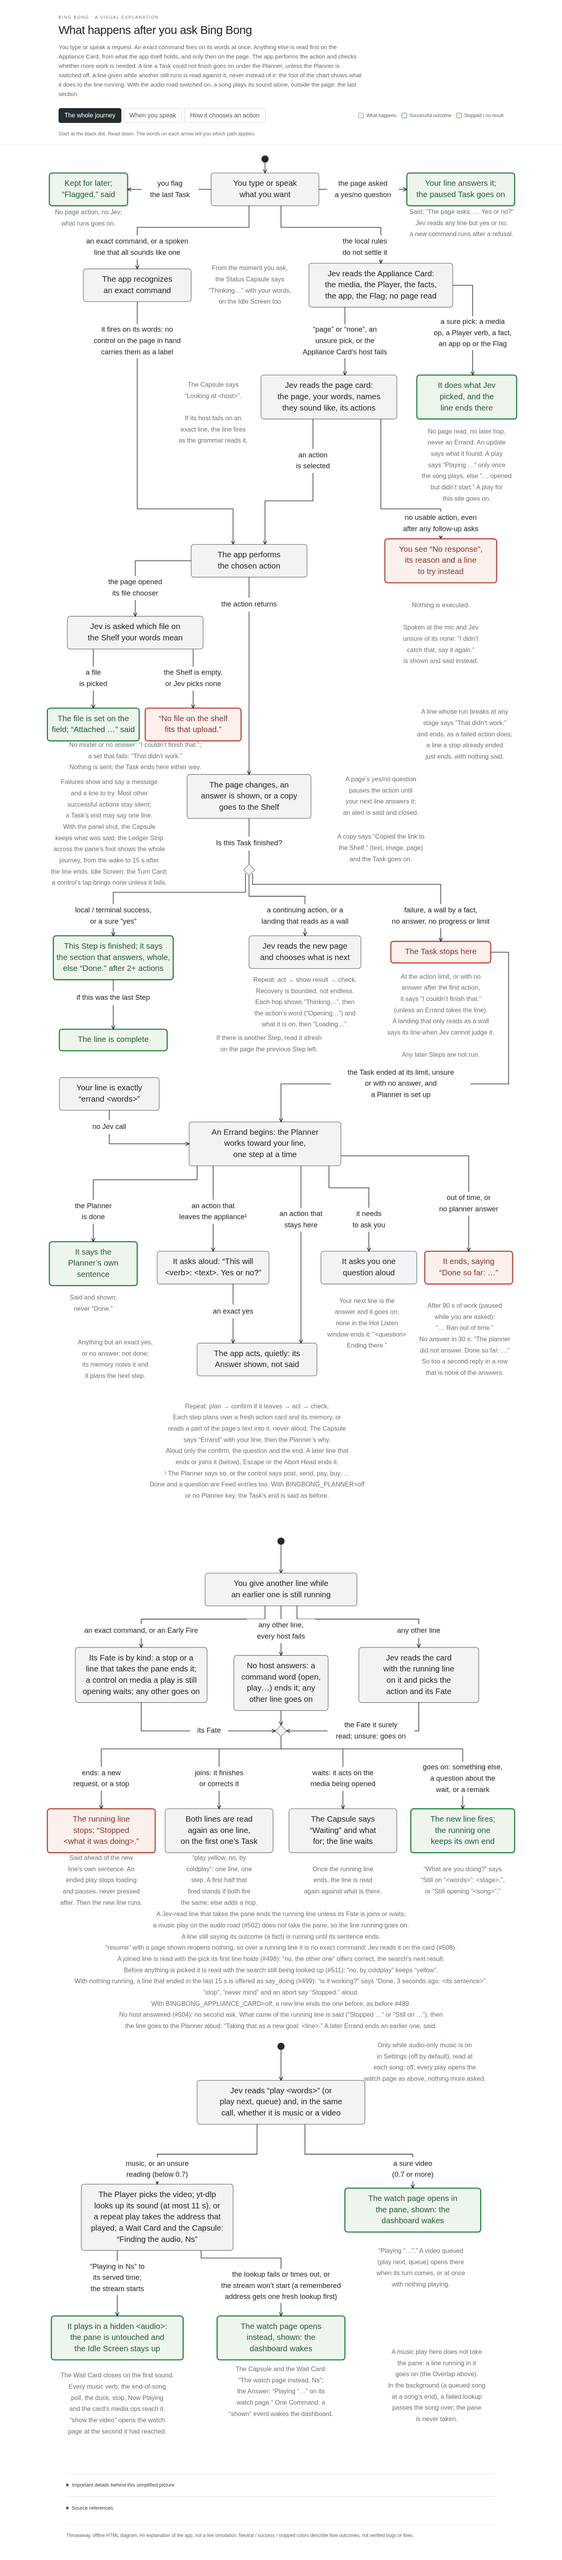
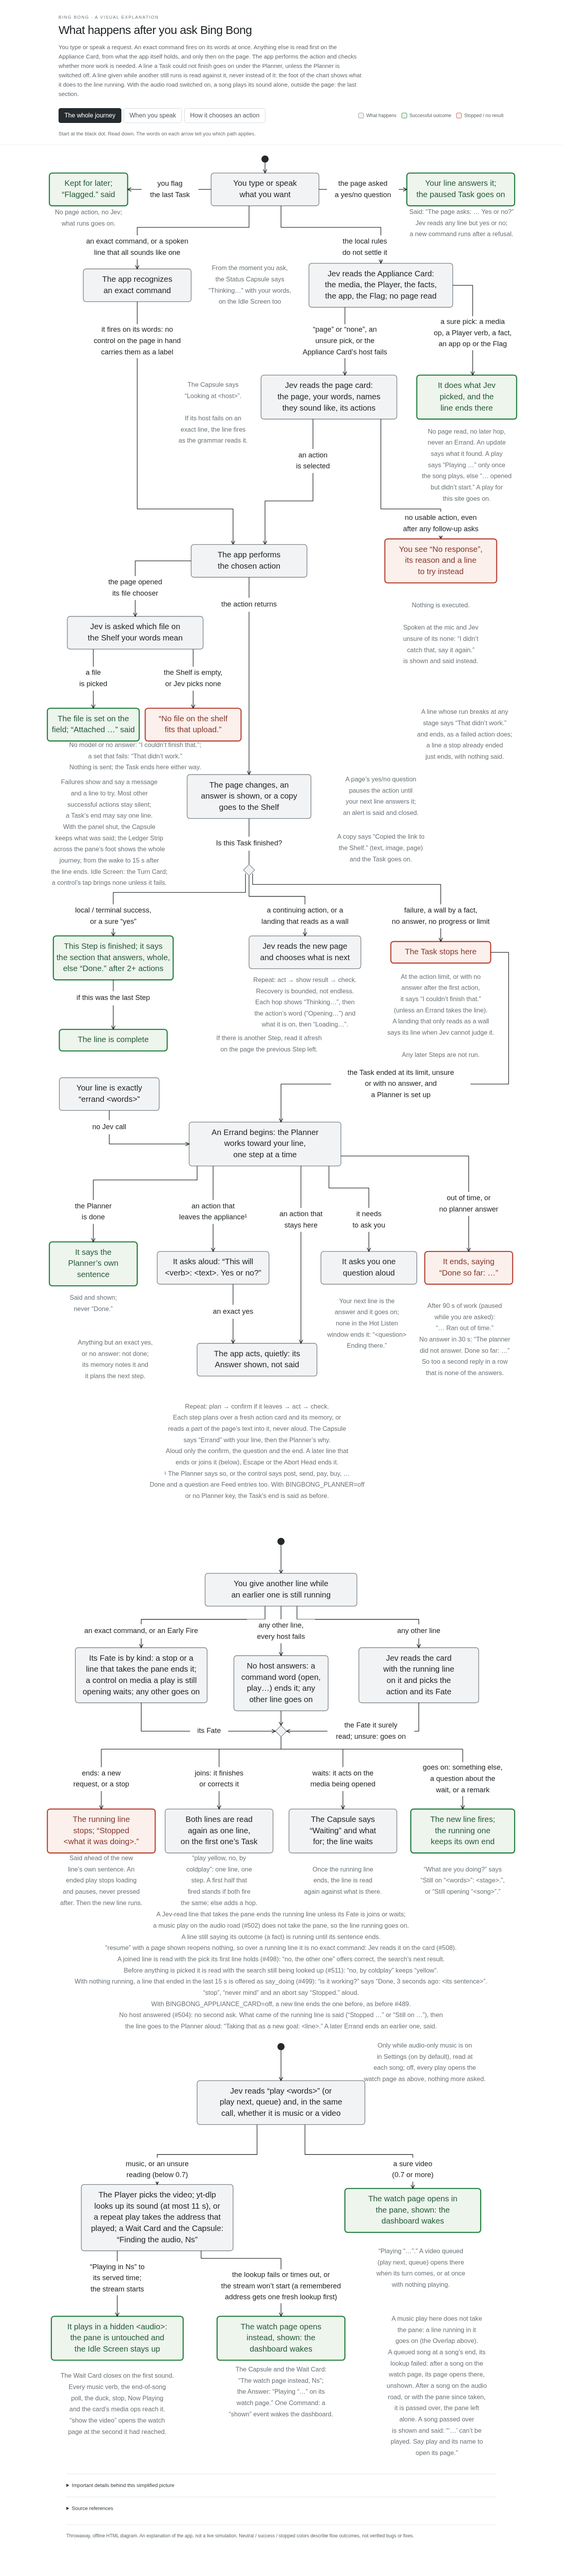
fix(music): a song at its end during its start has played, and is never opened again from the top (#538)
The end rule pauses a song 1 s from its end; a start needs 1.5 s of play
(PLAYED_S). A seek to the end while a start was being read therefore never
counted as started: the song was pressed, then opened again in full, and played
from 0:00 behind a new ad, with nothing queued and no Command asking.

Measured live on `music.e2e:142`, sampled every second: paused at 358.9 of 359.5,
the page gone at +5 s on the same id, a 20 s ad, then the song at 0:03 and playing.
Red 5 of 6 runs once `:134` got this far (the #538 fallback), green 3 of 3 after.

An element paused in its end's lead is now a start, by the same `atEnd` fact the
resume rule reads: no press, no reopen, and the poll hears the end from there.

Chart: the same version, one row in its changes and a clause in its details.
No Tier applies: this removes a press and a reopen, and adds no stage.

diff --git a/src/main/music/player.test.ts b/src/main/music/player.test.ts
@@ -1225,6 +1225,33 @@ describe("a song's start (#488): Playing only when the element plays", () => {
     expect(starts.at(-1)).toMatchObject({ started: false, pressed: true, reopened: true, refused: null, element: { paused: false, ended: false, ready: 2, time: 0 } })
   })
 
+  it('a song already at its end during its start has played: no press, and never opened again from the top (#538)', async () => {
+    const { youtube, player, perform, presses, starts } = starting()
+    youtube.opensAtEnd = true
+    const played = await perform({ kind: 'search', place: 'now' }, 'song a')
+    expect(played.failure).toBeUndefined()
+    expect(presses()).toBe(0)
+    expect(starts).toEqual([expect.objectContaining({ started: true, pressed: false, reopened: false })])
+    expect(player.queue().paused).toBe(false)
+  })
+
+  it('a queued song that reaches its end during its background start ends there, with nothing queued left: its page is not opened again (#538)', async () => {
+    const { youtube, player, perform, presses, starts } = starting()
+    await perform({ kind: 'search', place: 'now' }, 'song a')
+    await perform({ kind: 'search', place: 'end' }, 'song b')
+    youtube.opensAtEnd = true
+    youtube.endVideo()
+    await player.check()
+    await player.settled()
+    expect(starts.at(-1)).toMatchObject({ video: 'bbbbbbbbbbb', started: true, pressed: false, reopened: false, background: true })
+    expect(presses()).toBe(0)
+    youtube.endVideo()
+    await player.check()
+    await player.settled()
+    expect(player.queue().current).toBeNull()
+    expect(player.nowPlaying()).toMatchObject({ id: 'bbbbbbbbbbb' })
+  })
+
   it('a song left unstarted plays on `resume`', async () => {
     const { youtube, player, perform } = starting()
     youtube.starts = 'refuses'

diff --git a/src/main/music/player.ts b/src/main/music/player.ts
@@ -1035,6 +1035,12 @@ export function createPlayer(deps: PlayerDeps): Player {
         ad.ms = adMs(read)
         showAd(song, null)
       }
+      // Paused in its end's lead, a seek having taken it there during the start (#538): the end rule's pause, inside PLAYED_S. It played and
+      // it ended: a press would only be paused again, and a reopen plays it from the top behind a new ad. The poll hears the end from here.
+      if (last !== null && !last.ad && last.paused && last.duration !== null && atEnd({ elapsed: last.time, duration: last.duration })) {
+        waitEnded(current)
+        return decided({ video: song.id, started: true, pressed, reopened, refused: null, element: { paused: last.paused, ended: last.ended, ready: last.ready, time: last.time }, ms: Math.round(now() - from), background, ad: adMs(read) })
+      }
       // Unpaused with its time standing still (a stalled decode) is not playing either; `readyState` 3 is HAVE_FUTURE_DATA, data to play on now.
       const playing = last !== null && !last.ad && !last.paused && !last.ended && last.ready > 2 && (before === null || last.time > before.time)
       since = playing ? (since ?? last!.time) : null

diff --git a/src/main/music/scriptedYouTube.ts b/src/main/music/scriptedYouTube.ts
@@ -135,6 +135,9 @@ export class ScriptedYouTube {
     this.results.set(words, resultsData(...items))
   }
 
+  /** Every page from here on opens with its song already paused in its last half second (#538). */
+  opensAtEnd = false
+
   /** The video playing ends now — an ad's, when `adShowing` is set. */
   endVideo(): void {
     this.ended = { id: this.currentId(), ad: this.adShowing }
@@ -201,6 +204,8 @@ export class ScriptedYouTube {
       this.refused = null
       this.pressed = false
       this.duckMark = null
+      // A song at its end as soon as it is read, the end rule's pause on it: seeked there during its start (#538).
+      if (this.opensAtEnd && this.element.duration !== null) this.element = { ...this.element, paused: true, currentTime: this.element.duration - 0.5 }
       // The pre-roll (#497): the element plays the ad first, at its length, the page's ad marker on.
       const pod = this.preRollS === null ? [] : typeof this.preRollS === 'number' ? [this.preRollS] : [...this.preRollS]
       this.ad = pod.length === 0 ? null : { lengthS: pod[0]!, next: pod.slice(1), song: this.ad?.song ?? this.element.duration, between: false }

diff --git a/docs/diagrams/input-output/versions/2026-10-31-cc4f47f8-passed-over/changes.md b/docs/diagrams/input-output/versions/2026-10-31-cc4f47f8-passed-over/changes.md
@@ -11,6 +11,7 @@
 | That same background wait | a watch page opening instead | The Wait Card shows “The watch page instead”. The Capsule is not told, since no Command waits. | `fallBack`, `tellWait` |
 | The same end | the song that ended was on the audio road, or the person took the pane during the lookup | Still passed over: the pane may hold a page of the person's own. | `open` |
 | A queued song passed over, on either road | whether or not the queue goes on | One `speak` in no turn, a failure, goes to the Feed and is said: `“<title>” can't be played. Say play and its name to open its page.` Before, nothing was said. | `onPassedOver`, `passedOverLine` |
+| A song already paused at its end while its start is read | either road, a Command's or a queued song's | Its start is done: no press, and its page is not opened again. Before, a seek to the end inside the start reopened the page, and the song played again from the top behind an ad. | `startOf` |
 | A background open overtaken by a later line | it failed after the overtaking | Nothing said, and the later line's song is not dropped from the Queue. | `advanceInBackground` |
 
 The sentence's second half is a labelled guess in `passedOverLine`: no measure reaches spoken wording, and the owner's next report on it settles it.
